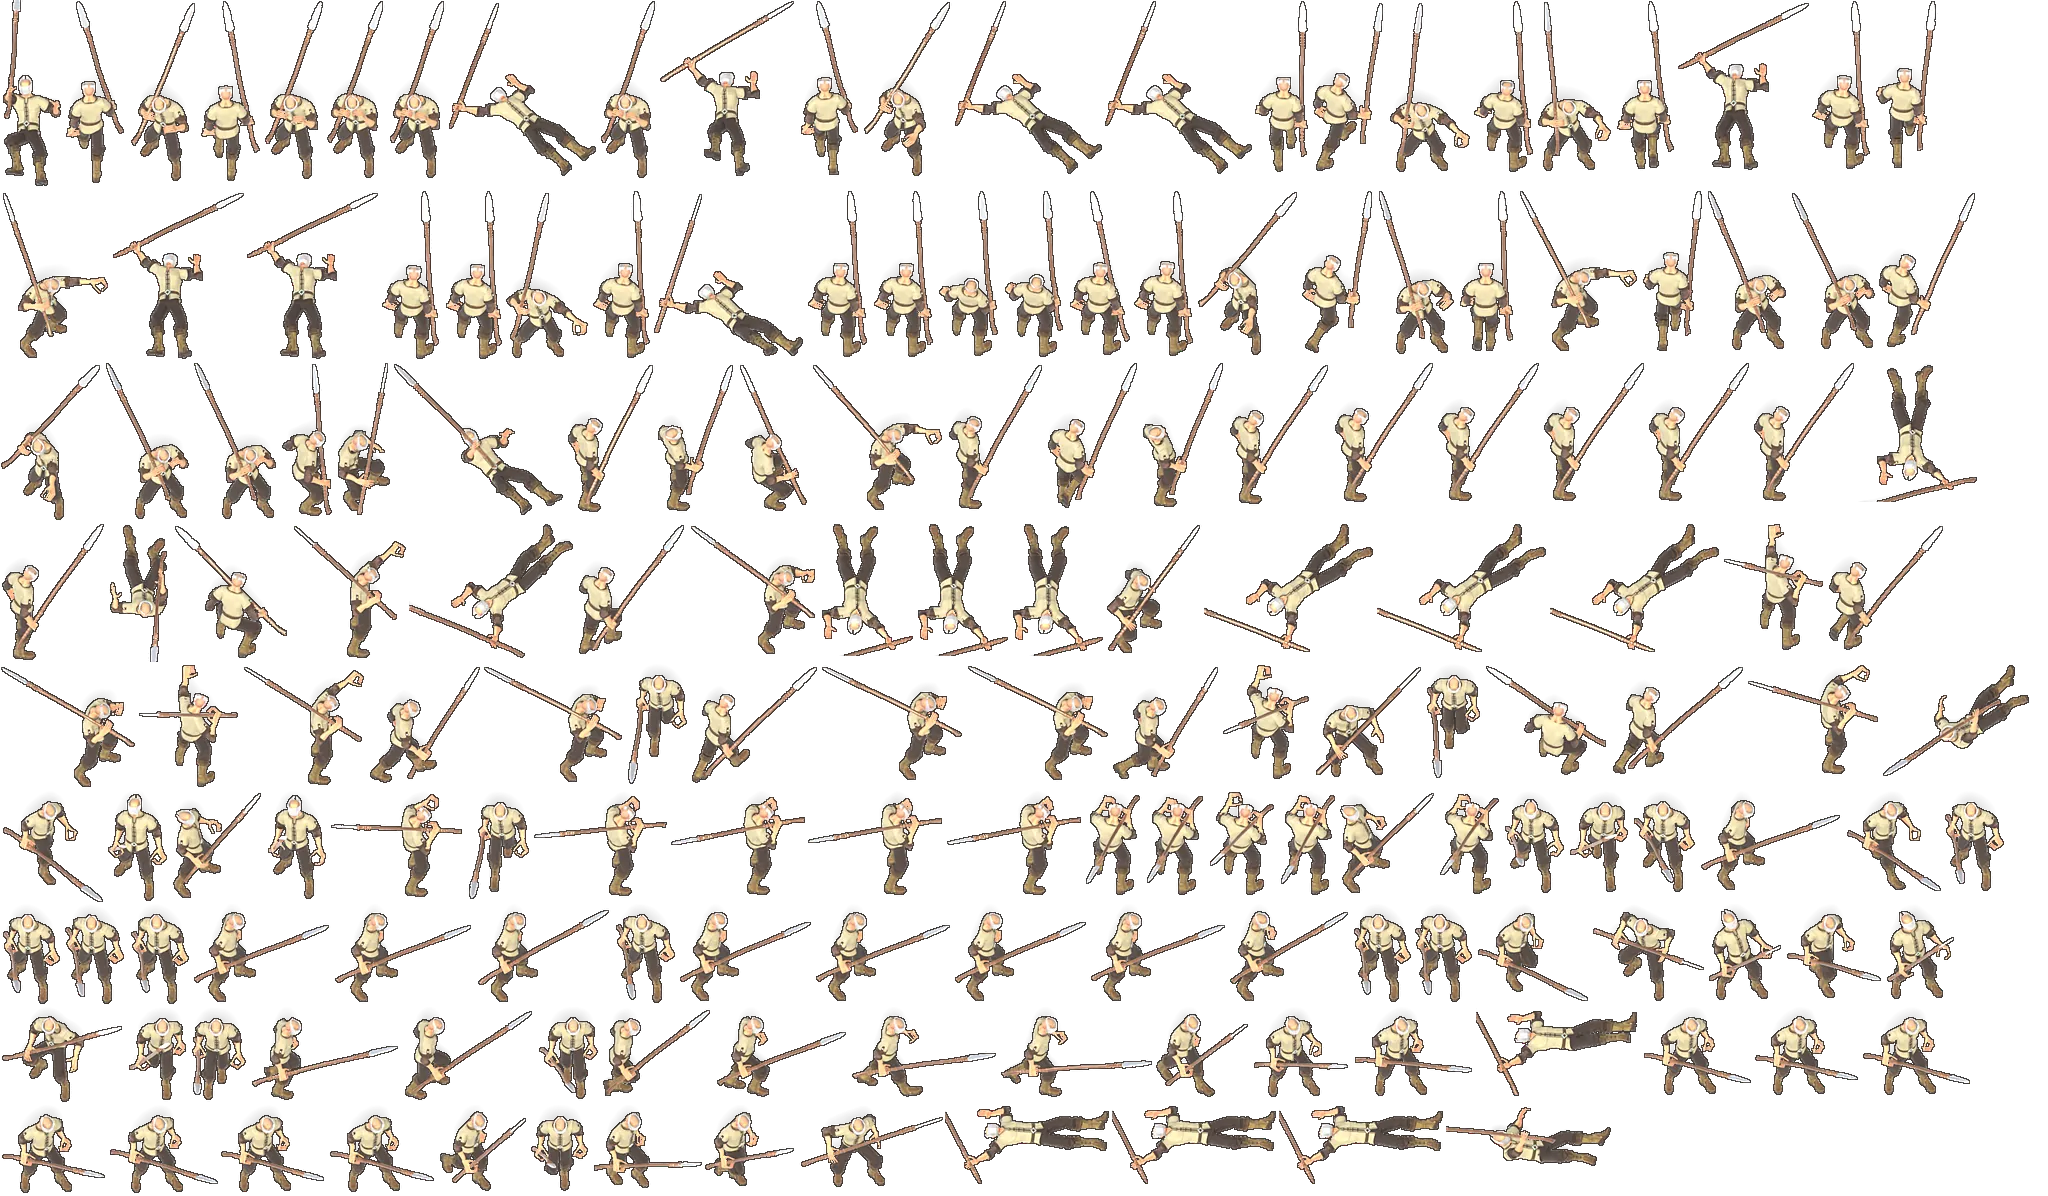
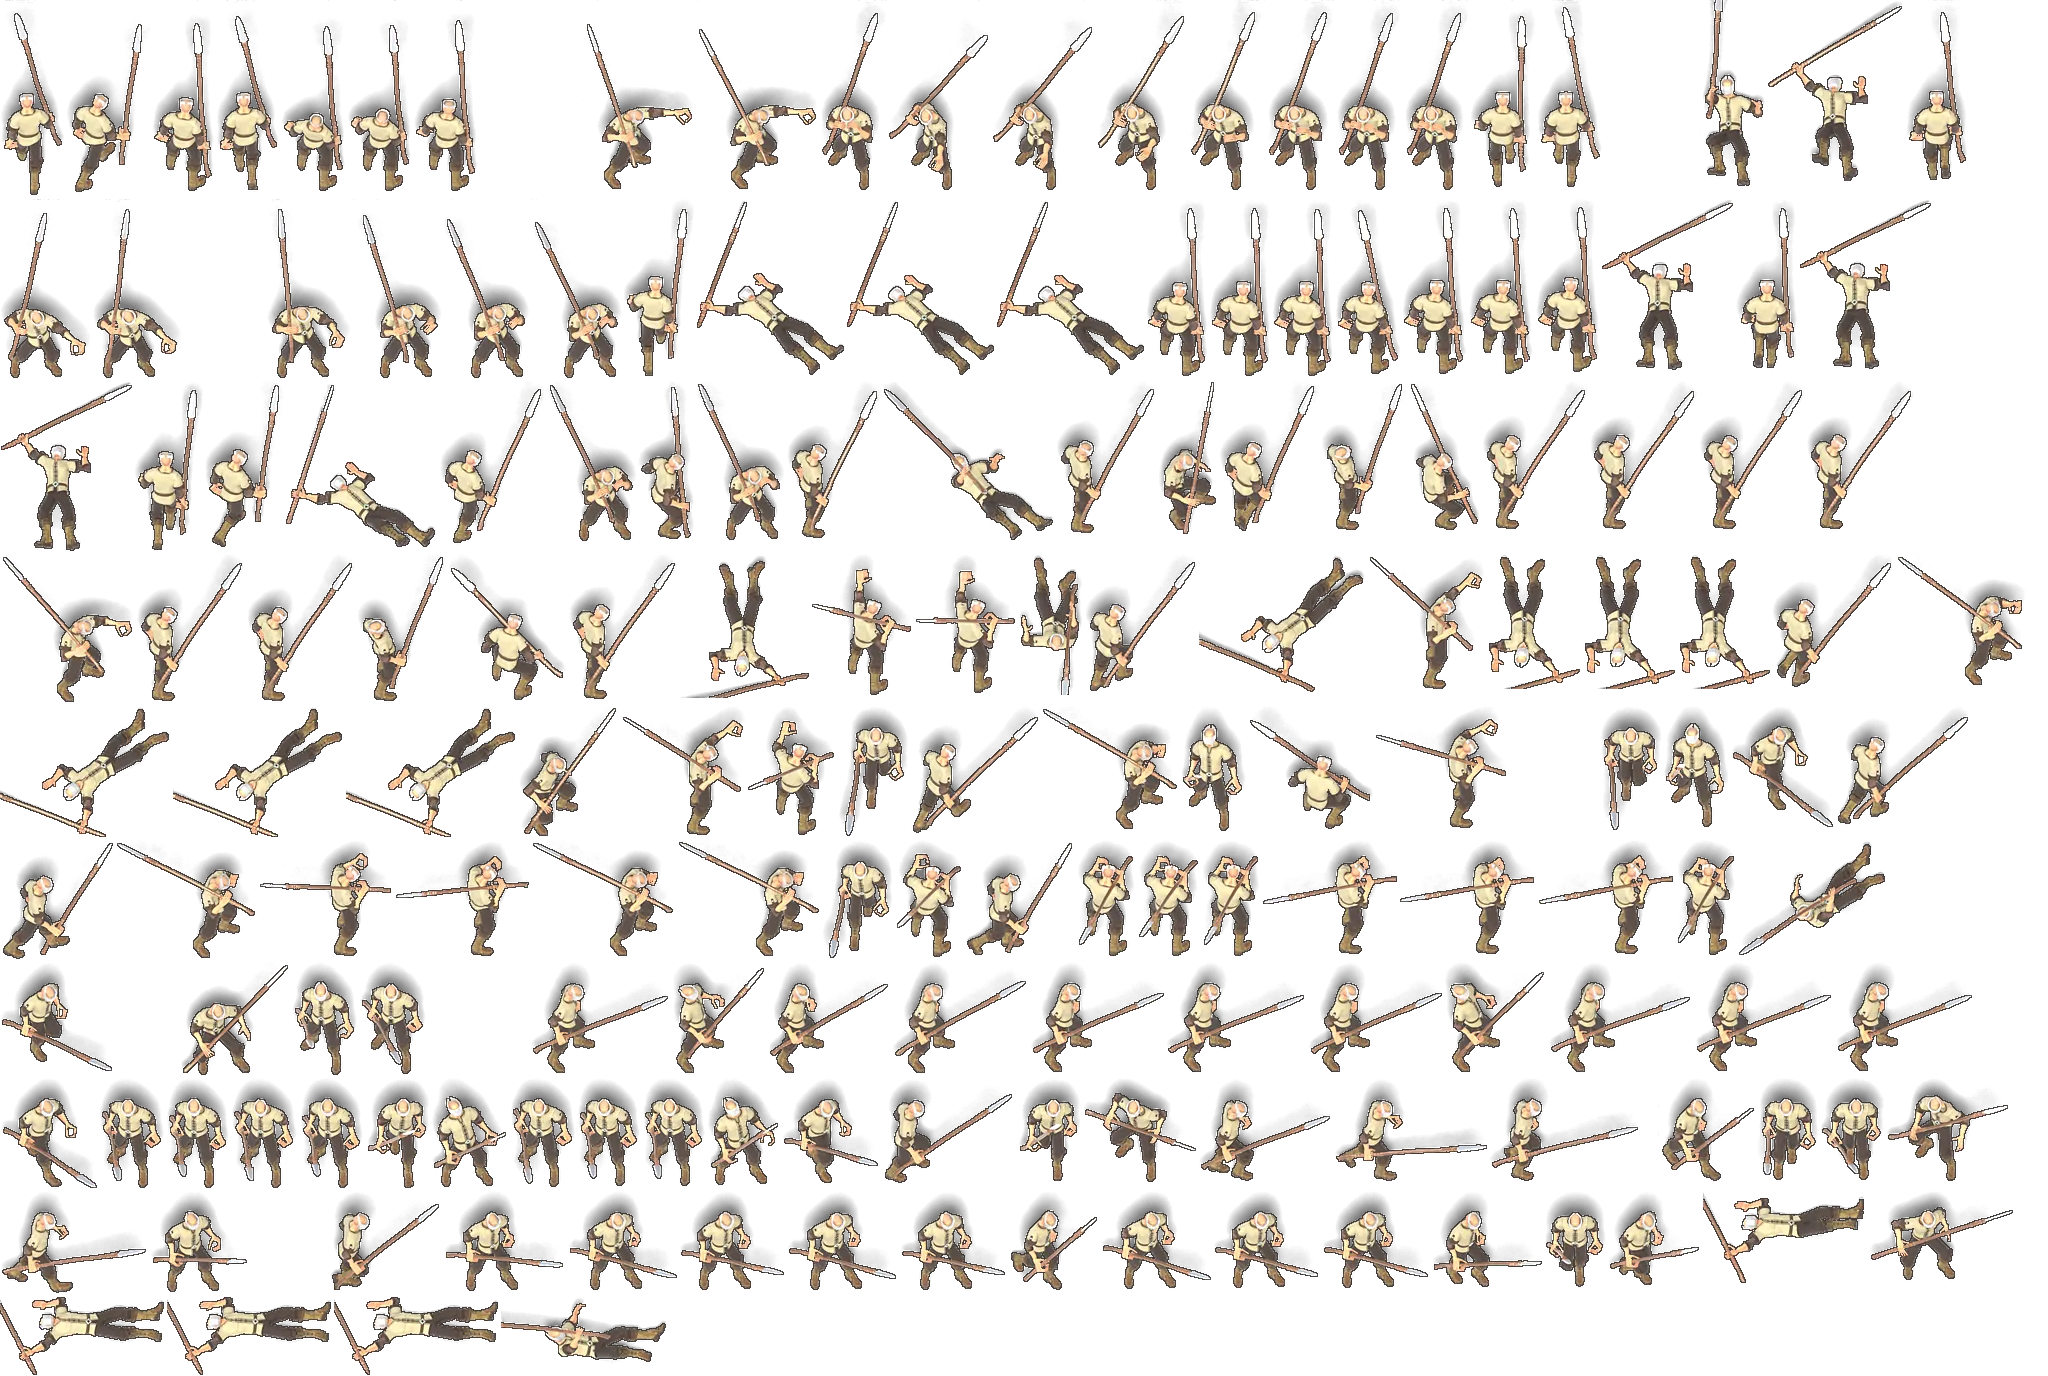
WIP v15: centaur rig support, credits/readme, shadow fade, behemoth forest-monster atlas

diff --git a/game3d.js b/game3d.js
@@ -124,12 +124,12 @@ async function buildPart(f,def,tint){const g=await loadG(f);const o=SkeletonUtil
     holder.scale.setScalar(p.len*H/(L*ws));bone.add(holder);}
   return {o,anims:g.animations};}
 // ---- pre-rendered sprites (?sprites=1): Blender-rendered 5-direction atlases (mirrored to 8) replace live 3D models ----
-const SPR_ON=/[?&]sprites=1/.test(location.search);const SPR={};const SPR_UNITS=['pikeman','archer','swordsman','monk','cavalier','angel','skeleton','walkingDead','goblin','dwarf','imp','behemoth','greenDragon'];const sprLoader=new THREE.TextureLoader();const SPR_V=15;
+const SPR_ON=/[?&]sprites=1/.test(location.search);const SPR={};const SPR_UNITS=['pikeman','archer','swordsman','monk','cavalier','angel','centaur','skeleton','walkingDead','goblin','dwarf','imp','behemoth','greenDragon'];const sprLoader=new THREE.TextureLoader();const SPR_V=15;
 // upgraded creatures reuse their base unit's atlas with a colour tint and a slightly larger scale (same approach as the 3D fallback)
 const SPR_ALIAS={halberdier:['pikeman',0xc4d0ff],marksman:['archer',0xc8f0c0],crusader:['swordsman',0xffd28a],zealot:['monk',0xffe2a8],champion:['cavalier',0xdde4ff],archangel:['angel',0xffe6a0],
-  skeletonWarrior:['skeleton',0xc8d4ff],zombie:['walkingDead',0xc8e8a0],hobgoblin:['goblin',0xffc48a],battleDwarf:['dwarf',0xffcfa0],familiar:['imp',0xff9a7a],ancientBehemoth:['behemoth',0xffb890]};
+  skeletonWarrior:['skeleton',0xc8d4ff],zombie:['walkingDead',0xc8e8a0],hobgoblin:['goblin',0xffc48a],battleDwarf:['dwarf',0xffcfa0],familiar:['imp',0xff9a7a],centaurCaptain:['centaur',0xd8e8c0],ancientBehemoth:['behemoth',0xffb890]};
 function loadSpr(t){if(!SPR_ON)return null;if(SPR_ALIAS[t])return loadSpr(SPR_ALIAS[t][0]);if(!SPR_UNITS.includes(t))return null;return SPR[t]||(SPR[t]=fetch(`assets/spr/${t}.json?v=${SPR_V}`).then(r=>r.json()).then(m=>Promise.all(m.pages.map((_,i)=>new Promise((res,rej)=>sprLoader.load(`assets/spr/${t}_p${i}.webp?v=${SPR_V}`,res,undefined,rej)))).then(tx=>{for(const x of tx){x.colorSpace=THREE.SRGBColorSpace;x.anisotropy=4;}m.tex=tx;return m;})).catch(e=>{console.warn('spr',t,e);return null;}));}
-const shadowTex=(()=>{const c=document.createElement('canvas');c.width=c.height=64;const x=c.getContext('2d');const g=x.createRadialGradient(32,32,2,32,32,32);g.addColorStop(0,'rgba(0,0,0,.55)');g.addColorStop(0.55,'rgba(0,0,0,.3)');g.addColorStop(1,'rgba(0,0,0,0)');x.fillStyle=g;x.fillRect(0,0,64,64);return new THREE.CanvasTexture(c);})();
+const shadowTex=(()=>{const c=document.createElement('canvas');c.width=c.height=64;const x=c.getContext('2d');const g=x.createRadialGradient(32,32,2,32,32,32);g.addColorStop(0,'rgba(0,0,0,.62)');g.addColorStop(0.5,'rgba(0,0,0,.36)');g.addColorStop(1,'rgba(0,0,0,0)');x.fillStyle=g;x.fillRect(0,0,64,64);return new THREE.CanvasTexture(c);})();
 const shadowMat=new THREE.MeshBasicMaterial({map:shadowTex,transparent:true,depthWrite:false});const shadowGeo=new THREE.PlaneGeometry(1,1);shadowGeo.rotateX(-Math.PI/2);
 // sprites are pushed toward the camera along the view ray (screen position unchanged, scale compensated) so the
 // baked contact shadow / feet below the ground anchor are never clipped by the ground plane

diff --git a/CREDITS.md b/CREDITS.md
@@ -74,3 +74,12 @@ All CC0 (public domain); credit given as courtesy.
 - **Swordsman / Archer / Pikeman** — bodies, heads and animations: Quaternius *Universal Base Characters*, *Modular Character Outfits – Fantasy* (Ranger outfit for swordsman (recoloured blue) and archer, Peasant outfit for pikeman) and *Universal Animation Library* (Sword_Idle/Attack, Pistol_Idle/Shoot, Punch_Jab, Walk_Loop, Hit_Chest, Death01) — https://quaternius.itch.io . Sword, heater shield, spear: Quaternius *Medieval Weapons Pack*; helmets: Quaternius *Knight* pack (via https://github.com/trebeljahr/quaternius-showcase). Crossbow: KayKit Adventurers (Kay Lousberg). All CC0.
 - **Green Dragon** — Quaternius "Dragon Evolved" (Ultimate Monsters), https://poly.pizza/m/LlwD0QNUPj , CC0 (recoloured green).
 - Skeleton (OGA Skeleton Outlaw) and Behemoth (OGA Cethiel's Dragon 3D, Drummyfish) as in v13, CC0.
+
+## v15 sprites (`?sprites=1`) — all CC0
+- **Behemoth** — "Forest Monster" by Čestmír Dammer (CDmir), OpenGameArt, CC0 — https://opengameart.org/content/forest-monster (tree removed, skin texture recoloured brown).
+- **Cavalier / Centaur** — Quaternius *Animated Animals* Horse (poly.pizza, CC0) — https://poly.pizza/m/qvTrSG9pZF ; riders and centaur torso built from Quaternius *Universal Base Characters* + *Modular Character Outfits – Fantasy* + *Universal Animation Library* (CC0).
+- **Monk / Angel / Goblin / Dwarf** — Quaternius UBC heads + hair (Hair_Long, Hair_Beard), Fantasy outfits (recoloured: brown monk robe, white/gold angel, green goblin skin), UAL animations. Weapons: Quaternius *Medieval Weapons* (Bow_Wooden, Sword_Golden, Axe_small, Shield_Round_2, Spear); monk staff: KayKit Adventurers (Kay Lousberg). Angel wings modelled procedurally in Blender for this project (CC0).
+- **Imp** — Quaternius "Demon" (Ultimate Monsters), CC0 — https://poly.pizza/m/LnfIziKv4o
+- **Walking Dead** — Quaternius "Zombie", CC0 — https://poly.pizza/m/VlXjG0N8Eg
+- **Archer** now draws a wooden bow (Quaternius Medieval Weapons) — UAL has no bow clip, so the shoot is the UAL Pistol_Shoot two-arm aim with the bow held in the leading hand.
+- Upgraded creatures (halberdier, marksman, crusader, zealot, champion, archangel, skeleton warrior, zombie, hobgoblin, battle dwarf, familiar, centaur captain, ancient behemoth) reuse the base atlas with a tint.

diff --git a/README.md b/README.md
@@ -352,3 +352,9 @@ faction win% (AI vs AI): castle 40%, rampart 57%, tower 55%, inferno 54%, necro 
 - Rendered with a 55° camera matching the portrait game camera; soles placed on z=0 from mesh vertices; baked shadow-catcher contact shadow + small blob; billboards anchored at the projected ground point and pushed toward the camera along the view ray so the lower body/shadow is never clipped.
 - Trimmed frames packed into 2048-wide atlas pages (GPU memory ~5–35 MB per unit instead of ~70+), premultiplied-alpha downscale (no fringes), 1 px external outline.
 - Projectiles now spawn offset toward the target; facing locks onto the wind-up target.
+
+## v15 — sprite roster expansion (behind `?sprites=1`)
+- Sprites for Castle pikeman, archer (now with a bow), swordsman (upright idle), monk, cavalier, angel; early enemies skeleton, walking dead, goblin, imp, centaur, dwarf; plus behemoth (new hulking CC0 "Forest Monster" body) and green dragon (smaller 2×2 footprint, nose-up hover so the front view shows the head, matte darker scales).
+- Upgrades reuse their base atlas with a tint + 8 % scale (halberdier, marksman, crusader, zealot, champion, archangel, …).
+- Atlases are fetched lazily the first time a unit type appears (≈0.5–0.9 MB per type), so a battle only downloads what is on the field.
+- Stronger baked contact shadows (faded with distance from the feet) + darker blob shadow.
